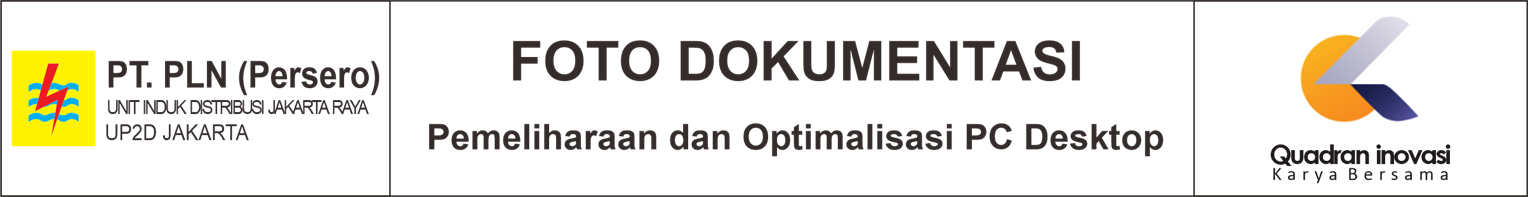
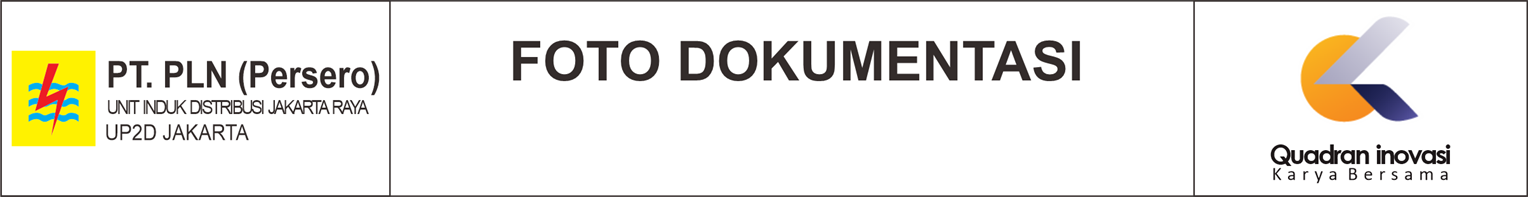
Form A4: subjudul kop bisa diedit, nama PDF sesuai lokasi, pekerjaan isi sendiri

Changed region(s): [[0.2768, 0.6091, 0.769, 0.7919]]

diff --git a/index.html b/index.html
@@ -49,6 +49,12 @@ button:focus-visible,input:focus-visible,select:focus-visible{outline:2px solid 
 #selbar span{flex:1;color:var(--mut);font-size:13px}
 #selbar button{min-width:0}
 button.pri{background:var(--ok);color:#000;border-color:var(--ok);font-weight:600}
+dialog{margin:auto;background:var(--bg);color:var(--fg);border:1px solid #2a3038;border-radius:14px;padding:16px;width:min(440px,calc(100% - 24px))}
+dialog::backdrop{background:rgba(0,0,0,.6)}
+dialog form{display:grid;gap:12px}
+dialog label{display:grid;gap:6px;font-size:13px;color:var(--mut)}
+#jobc{grid-column:1/-1}
+#jobc[hidden]{display:none}
 #again{position:fixed;left:50%;top:40%;transform:translateX(-50%);padding:14px 22px;box-shadow:0 4px 20px rgba(0,0,0,.6)}
 #again[hidden]{display:none}
 #shot{width:74px;height:74px;border-radius:50%;border:4px solid #fff;background:#fff;padding:0;min-width:0;box-shadow:inset 0 0 0 4px var(--bg)}
@@ -75,8 +81,9 @@ button.pri{background:var(--ok);color:#000;border-color:var(--ok);font-weight:60
       <input id="note" type="text" placeholder="Catatan" maxlength="80" autocomplete="off">
     </div>
     <div class="in">
-      <select id="job" aria-label="Pekerjaan"><option value="">Tanpa pekerjaan</option></select>
+      <select id="job" aria-label="Pekerjaan"></select>
       <div class="seg" id="ph"><button data-v="Sebelum">Sebelum</button><button data-v="Sesudah">Sesudah</button></div>
+      <input id="jobc" type="text" placeholder="Tulis nama pekerjaan" maxlength="60" autocomplete="off" hidden>
     </div>
     <div class="row" id="main">
       <button id="flip">Balik kamera</button>
@@ -87,10 +94,17 @@ button.pri{background:var(--ok);color:#000;border-color:var(--ok);font-weight:60
       <button id="seloff">Batal</button>
       <span id="selc">Ketuk foto untuk memilih</span>
       <button id="del">Hapus</button>
+      <button id="ed">Edit</button>
       <button id="mk" class="pri">Buat PDF</button>
     </div>
   </div>
 </div>
+<dialog id="fd">
+  <form method="dialog">
+    <label>Subjudul kop<input id="f_sub" maxlength="70" autocomplete="off"></label>
+    <div class="row"><button type="button" id="fdx">Batal</button><button value="ok" class="pri">Simpan</button></div>
+  </form>
+</dialog>
 <button id="again" class="pri" hidden>Simpan / bagikan</button>
 <div id="toast" role="status"></div>
 <script>
@@ -104,10 +118,16 @@ let stream, facing = 'environment', pos = null, heading = null, addr = '', addrA
 
 /* Pekerjaan + Sebelum/Sesudah (dipakai untuk menyusun form A4) */
 const JOBS = ['Instalasi RAM', 'Instalasi SSD', 'Cleaning Internal & Eksternal PC', 'Pemeriksaan Keyboard & Mouse', 'Pemeriksaan Network'];
-const jobI = $('#job');
+const jobI = $('#job'), jobC = $('#jobc'), OWN = '*';
 JOBS.forEach(j => jobI.add(new Option(j, j)));
-jobI.value = JOBS.includes(localStorage.getItem('job')) ? localStorage.getItem('job') : '';
-jobI.onchange = () => localStorage.setItem('job', jobI.value);
+jobI.add(new Option('Lainnya (isi sendiri)…', OWN));
+jobI.value = [...JOBS, OWN].includes(localStorage.getItem('job')) ? localStorage.getItem('job') : JOBS[0];
+jobC.value = localStorage.getItem('jobc') || '';
+const jobShow = () => { jobC.hidden = jobI.value !== OWN; };
+jobI.onchange = () => { localStorage.setItem('job', jobI.value); jobShow(); if (!jobC.hidden) jobC.focus(); };
+jobC.oninput = () => localStorage.setItem('jobc', jobC.value);
+jobShow();
+const jobNow = () => jobI.value === OWN ? jobC.value.trim() : jobI.value;
 let phase = localStorage.getItem('ph') === 'Sesudah' ? 'Sesudah' : 'Sebelum';
 const phSet = p => { phase = p; localStorage.setItem('ph', p); document.querySelectorAll('#ph button').forEach(b => b.classList.toggle('on', b.dataset.v === p)); };
 document.querySelectorAll('#ph button').forEach(b => b.onclick = () => phSet(b.dataset.v));
@@ -244,7 +264,7 @@ shot.onclick = () => {
     x.font = `700 ${fs * 1.1}px system-ui,sans-serif`; x.textAlign = 'center'; x.fillText('N', cx, cy + r + fs * .15); x.textAlign = 'left';
   }
   const name = `foto_${now.getFullYear()}${p2(now.getMonth() + 1)}${p2(now.getDate())}_${p2(now.getHours())}${p2(now.getMinutes())}${p2(now.getSeconds())}.jpg`;
-  const meta = { job: jobI.value, ph: jobI.value ? phase : '', note: noteI.value.trim(), loc: locI.value.trim() };
+  const job = jobNow(), meta = { job, ph: job ? phase : '', note: noteI.value.trim(), loc: locI.value.trim() };
   c.toBlob(async b => { await dbAdd({ blob: b, name, t: now.getTime(), ...meta }); await output(b, name); renderHist(); }, 'image/jpeg', .88);
 };
 
@@ -310,14 +330,20 @@ $('#del').onclick = async () => {
 };
 
 /* Form A4: 2 x 2 foto per halaman, dirender ke canvas lalu dibungkus jadi PDF (tanpa library) */
-const kop = new Image(); kop.src = 'kop.png'; // kop tetap, dipotong dari aset/From Foto Pekerjaan.png
+const kop = new Image(); kop.src = 'kop.png'; // dipotong dari aset/From Foto Pekerjaan.png, area subjudul dikosongkan
+const SUB = 'Pemeliharaan dan Optimalisasi PC Desktop';
+const fd = $('#fd'), subI = $('#f_sub');
+$('#ed').onclick = () => { subI.value = localStorage.getItem('sub') || SUB; fd.showModal(); };
+$('#fdx').onclick = () => fd.close();
+fd.onclose = () => { if (fd.returnValue === 'ok') { localStorage.setItem('sub', subI.value.trim()); toast('Subjudul disimpan'); } fd.returnValue = ''; };
 $('#mk').onclick = async () => {
   if (!sel.length) return toast('Pilih foto dulu');
   const lok = items.find(it => it.key === sel[0]).loc || locI.value.trim();
   toast('Membuat PDF…');
   try {
     const now = new Date(), blob = await makeForm(lok, items.filter(it => sel.includes(it.key)));
-    await output(blob, `form_foto_${now.getFullYear()}${p2(now.getMonth() + 1)}${p2(now.getDate())}_${p2(now.getHours())}${p2(now.getMinutes())}${p2(now.getSeconds())}.pdf`);
+    const base = lok.replace(/[\\/:*?"<>|]+/g, '-').replace(/\s+/g, ' ').trim() || 'form_foto';
+    await output(blob, `${base}_${p2(now.getDate())}-${p2(now.getMonth() + 1)}-${now.getFullYear()}.pdf`);
     selSet(false);
   } catch (e) { toast('Gagal membuat PDF: ' + e.message); }
 };
@@ -355,6 +381,9 @@ async function drawPage(lok, rows, pg, n, made) {
   const box = (X, Y, W, H) => x.strokeRect(X * K, Y * K, W * K, H * K);
   const M = 8, CW = 210 - 2 * M, HH = CW * kop.naturalHeight / kop.naturalWidth;
   x.drawImage(kop, M * K, M * K, CW * K, HH * K);
+  const ks = CW / 2407; // mm per piksel gambar contoh asli (lebar kop 2407 px)
+  const sub = localStorage.getItem('sub') ?? SUB;
+  if (sub) txt(x, sub, M + 1247 * ks, M + 221 * ks, 1230 * ks, 4.4, 700, 'center');
   txt(x, 'LOKASI : ' + (lok || '-'), M, M + HH + 5, CW, 4.5, 700);
   // Grid 2 x 2
   const top = M + HH + 10, bot = 297 - M - 6, gap = 4, lab = 8, rowH = (bot - top - gap) / 2, colW = (CW - 5) / 2;

diff --git a/sw.js b/sw.js
@@ -1,4 +1,4 @@
-const CACHE = 'foto-bukti-v4'; // naikkan angka ini setiap kali index.html diubah
+const CACHE = 'foto-bukti-v5'; // naikkan angka ini setiap kali index.html diubah
 const FILES = ['./', './index.html', './manifest.json', './icon-192.png', './icon-512.png', './logo.png', './kop.png'];
 self.addEventListener('install', e => { e.waitUntil(caches.open(CACHE).then(c => c.addAll(FILES))); self.skipWaiting(); });
 self.addEventListener('activate', e => {
